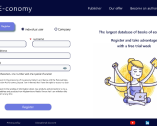
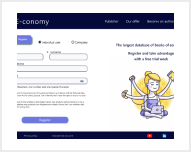
styling fixes

diff --git a/src/app/pages/about/about.component.html b/src/app/pages/about/about.component.html
@@ -1,24 +1,34 @@
 <section class="section-menu-page">
   <h2>About me</h2>
   <p class="my-5">I am fresh graduated management student with a specialization in customer behavior, looking for a job in UX design
-    or product management. I currently based in Poland, but am willing to relocate.</p>
+    or product management. I am currently based in Poland, but willing to relocate.</p>
   <p>My area of interest: </p>
 
-  <ul class="list-decimal my-4">
-    <li>user research</li>
-    <li>UX strategy building</li>
-    <li>User flows</li>
-    <li>customer journey</li>
-    <li>Lo-fi/Hi-fi prototypes</li>
-  </ul>
+  <div class="grid">
+    <div class="about-sub-container">
+      <ul class="col-about">
+        <li>user research</li>
+        <li>UX strategy building</li>
+        <li>User flows</li>
+      </ul>
+      <ul class="col-about">
+        <li>customer journey</li>
+        <li>Lo-fi/Hi-fi prototypes</li>
+      </ul>
+    </div>
 
-  <div class="flex flex-row justify-between mt-10 space-y-2 flex-wrap">
-    <div class="face-pic-container pt-4">
-      <div class="face-pic-frame"></div>
-      <div class="face-pic-bg">
-        <img src="assets/img/face.png" alt="face-img">
+    <div class="about-sub-container pt-10">
+      <div class="face-pic-container pt-4 col-about">
+        <div class="face-pic-frame"></div>
+        <div class="face-pic-bg">
+          <img src="assets/img/face.png" alt="face-img">
+        </div>
+      </div>
+      <div class="col-about mt-2">
+        <a class="linkedin-btn" target="_blank" href="https://www.linkedin.com/in/magda-%C5%82ukasiak-109801172/">Linkedin</a>
       </div>
     </div>
-    <a class="linkedin-btn" target="_blank" href="https://www.linkedin.com/in/magda-%C5%82ukasiak-109801172/">Linkedin</a>
   </div>
+
+
 </section>

diff --git a/src/styles.scss b/src/styles.scss
@@ -4,28 +4,34 @@
 @import 'tailwindcss/utilities';
 
 //@import url('https://fonts.googleapis.com/css2?family=Roboto+Condensed&display=swap');
-@import url('https://fonts.googleapis.com/css2?family=Roboto+Condensed:wght@400;700&family=Roboto+Slab:wght@200;300&display=swap');
-@import url('https://fonts.googleapis.com/css2?family=Roboto+Condensed&family=Roboto+Slab:wght@200;300&display=swap');
 @import './themes.scss';
+@import url('https://fonts.googleapis.com/css2?family=Lato:wght@100;300;400&family=Lora&display=swap');
 
 html, body, *{
   margin: 0;
   padding: 0;
-  font-family: 'Roboto Condensed', sans-serif;
-  font-family: 'Roboto Slab', serif;
+  font-family: "Lato";
   overflow: hidden;
+  font-weight: 300;
 }
 
 h1 {
   font-size: 4.5rem;
+  font-family: 'Lato', sans-serif;
 }
 
 h2 {
-  font-size: 3.5rem;
+  font-size: 2.5rem;
 }
 
 h3 {
-  font-size: 2.2rem;
+  font-size: 1.7rem;
+  font-family: 'Lato', sans-serif;
+  font-weight: 300;
+}
+
+p, label, li, span {
+  font-size: 1.4rem;
 }
 
 .linkedin-btn {
@@ -65,6 +71,31 @@ h3 {
     z-index: 2;
     background-color: #6c824f;
     transform: translate(4%, -4%);
+  }
+}
+
+@media (max-width: $bp-md) {
+  h1 {
+    font-size: 4.5rem;
+    font-family: 'Lato', sans-serif;
+  }
+
+  h2 {
+    font-size: 3.2rem;
+  }
+
+  h3 {
+    font-size: 1.5em;
+    font-family: 'Lato', sans-serif;
+    font-weight: 300;
+  }
+
+  p, label, li, span {
+    font-size: 1rem;
+  }
+
+  .section-menu-page {
+    @apply overflow-auto h-screen px-10 py-4;
   }
 }
 

diff --git a/src/app/components/project-card/project-card.component.html b/src/app/components/project-card/project-card.component.html
@@ -1,21 +1,17 @@
-<div *ngIf="options" class="card-container flex flex-col sm:flex-row items-center">
-  <a [href]="options.pdfPath" target="_blank">
-    <div class="project-miniature">
+<a *ngIf="options" [href]="options.pdfPath" target="_blank">
+  <div class="card-container flex flex-col sm:flex-row items-center">
+    <div  class="project-miniature lg:ml-16">
       <img class="mb-4"
            [src]="options.imgPath"
            alt="image-path">
     </div>
-  </a>
-  <div class="project-info flex flex-col space-y-3">
-      <a [href]="options.pdfPath" target="_blank"><h2>{{options.header}}</h2></a>
-      <h3>{{options.description}}</h3>
-      <div class="flex flex-row justify-content-center flex-wrap">
-        <chip *ngFor="let tag of options.tags" [title]="tag" class="m-1"></chip>
-      </div>
+    <div class="project-info flex flex-col space-y-3">
+        <a [href]="options.pdfPath" target="_blank"><h2>{{options.header}}</h2></a>
+        <h3>{{options.description}}</h3>
+        <div class="flex flex-row justify-content-start flex-wrap">
+          <chip *ngFor="let tag of options.tags" [title]="tag" class="m-1"></chip>
+        </div>
+    </div>
   </div>
-  <a [href]="options.pdfPath" target="_blank" class="ml-auto p-2">
-    <img [src]="'assets/icons/arrow.png'" [style.height]="'1.2rem'" [style.min-width]="'.8rem'">
-  </a>
-</div>
+</a>
 <hr>
-

diff --git a/src/app/components/nav-toolbar/nav-toolbar.component.scss b/src/app/components/nav-toolbar/nav-toolbar.component.scss
@@ -1,14 +1,17 @@
+@import '../../../themes';
+
 nav {
   @apply flex flex-row flex-grow;
   a {
       text-align: center;
       width: 100%;
       padding: 1.2rem 0;
-      font-size: 1rem;
+      font-size: 1.3rem;
+      font-family: 'Lato', sans-serif;
       border: 1px solid #EBEBEB;
       color: #555555;
       &:hover {
-        color: #20f120;
+        color: #117311;
       }
   }
 }
@@ -16,4 +19,14 @@ nav {
 .active {
   border: 1px solid #117311 !important;
   color: #117311 !important;
+}
+
+@media (max-width: $bp-sm) {
+  nav {
+    a {
+      padding: .5rem 0;
+      font-size: .8rem;
+    }
+  }
+
 }

diff --git a/src/app/pages/about/about.component.scss b/src/app/pages/about/about.component.scss
@@ -1,12 +1,31 @@
 @import '../../../themes.scss';
 
 ul {
-  columns: 1;
   list-style: inside;
 }
 
-@media (min-width: $bp-md) {
-  ul {
-    columns: 2;
+.about-sub-container {
+  display: flex;
+  flex-direction: row;
+  justify-content: space-between;
+  margin-right: auto;
+}
+
+.col-about {
+  min-width: 300px;
+}
+
+@media (min-width: $bp-md) and (max-width: $bp-lg) {
+  .about-sub-container {
+    flex-direction: column;
+  }
+  .linkedin-btn {
+    @apply mt-2;
+  }
+}
+
+@media (max-width: $bp-sm) {
+  .about-sub-container {
+    flex-direction: column;
   }
 }

diff --git a/src/app/components/project-card/project-card.component.scss b/src/app/components/project-card/project-card.component.scss
@@ -1,27 +1,25 @@
 @import '../../../themes';
 
 .card-container {
+  &:hover {
+    border: 1px solid #117311;
+  }
   .project-miniature {
-      width: 180px;
-      min-width: 180px;
+      width: 240px;
+      min-width: 220px;
       height: auto;
+    img {
+      width: 100%;
+    }
   }
 
   .project-info {
+    padding-left: 2rem;
     width: 100%;
     height: auto;
   }
 
   padding: 2rem 1.5rem;
-  div {
-    padding-left: 2rem;
-    h2 {
-      font-size: 2rem;
-    }
-    h3 {
-      font-size: 1.2rem;
-    }
-  }
 }
 
 @media (max-width: $bp-sm) {

diff --git a/src/app/app.component.html b/src/app/app.component.html
@@ -1,6 +1,6 @@
-<main class="grid md:grid-cols-2">
-  <home class=""*ngIf="showTitle"></home>
-  <section class="content">
+<main class="grid md:grid-cols-7">
+  <home class="col-span-3" *ngIf="showTitle"></home>
+  <section class="content col-span-4">
     <nav-toolbar></nav-toolbar>
     <router-outlet></router-outlet>
   </section>

diff --git a/src/app/pages/contact/contact.component.html b/src/app/pages/contact/contact.component.html
@@ -1,6 +1,6 @@
 <section class="section-menu-page flex flex-col space-y-4">
   <h2>Find me here</h2>
-  <div class="flex flex-row space-x-4">
+  <div class="flex flex-row space-x-6">
     <img src="assets/icons/mail.png" alt="mail-icon" class="icon-contact">
     <label for="">magdalukasiak96@gmail.com</label>
   </div>

diff --git a/src/app/pages/home/home.component.scss b/src/app/pages/home/home.component.scss
@@ -9,7 +9,7 @@
 
   .title{
     margin: 0 3rem;
-    border: 1rem solid rgba(233, 233, 233, 0.53);
+    border: 0.7rem solid rgba(233, 233, 233, 0.53);
     padding: 1rem 3rem;
 
     h1 {
